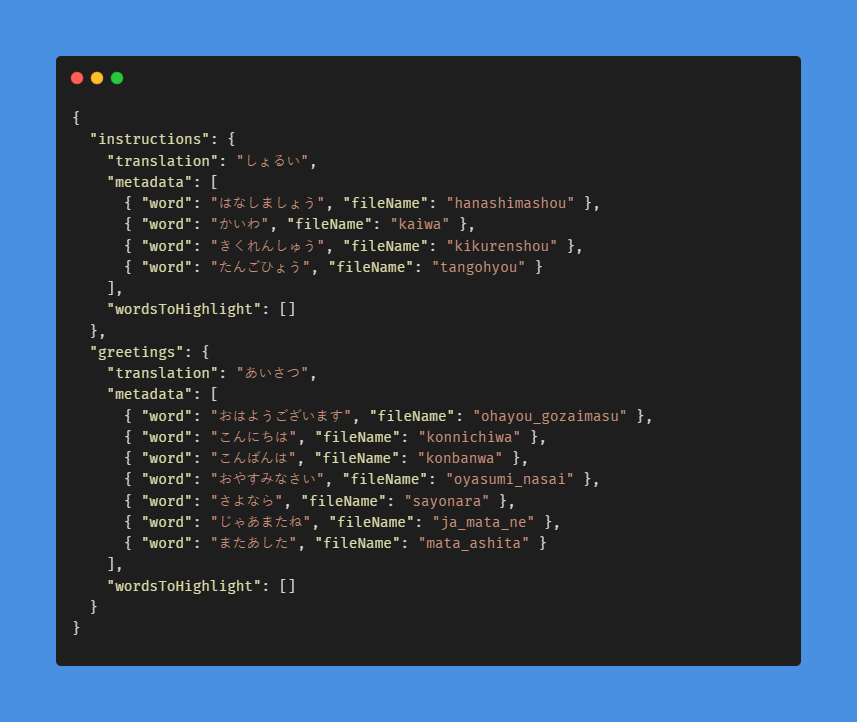
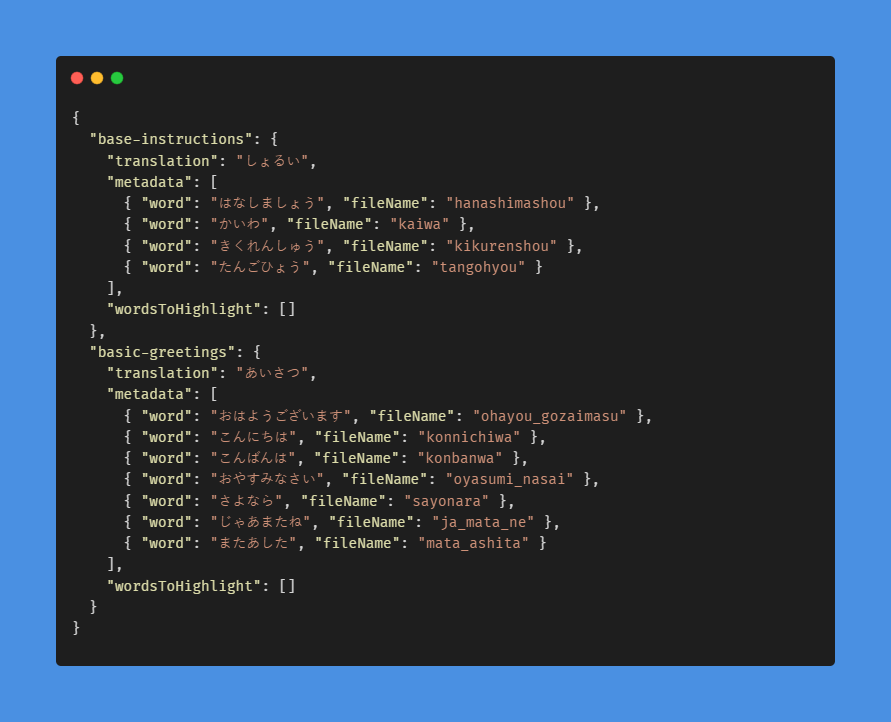
refactor: add image folders file routing

Changed region(s): [[0.0607, 0.0914, 0.7281, 0.9141], [0.9102, 0.0914, 0.9405, 0.9141]]

diff --git a/src/pages/interface/components/imageSection/ImageSection.tsx b/src/pages/interface/components/imageSection/ImageSection.tsx
@@ -5,12 +5,14 @@ import { type image } from "../../../../types";
 type ImageSectionProps = {
   images: image[];
   currentImage: string;
+  path: string;
   handleSetIsLoaded: () => void;
 };
 
 const ImageSection = ({
   images,
   currentImage,
+  path,
   handleSetIsLoaded,
 }: ImageSectionProps) => {
   return (
@@ -18,7 +20,7 @@ const ImageSection = ({
       <section className="grid rounded-3xl border-8 border-accent-shade bg-base-main p-4">
         {images.map((image) => {
           const imageUrl: string = new URL(
-            `../../../../images/${image.fileName}.jpg`,
+            `../../../../images/${path}/${image.fileName}.jpg`,
             import.meta.url,
           ).href;
           return (

diff --git a/src/pages/interface/Interface.tsx b/src/pages/interface/Interface.tsx
@@ -31,6 +31,7 @@ function Interface({ data, isShowText, handleIsShowText }: InterfaceProps) {
     text,
     currentImage,
     highlights,
+    path,
     isSpeechReady,
     handleNext,
     handleReset,
@@ -54,6 +55,7 @@ function Interface({ data, isShowText, handleIsShowText }: InterfaceProps) {
               <ImageSection
                 images={images}
                 currentImage={currentImage}
+                path={path}
                 handleSetIsLoaded={handleSetIsLoaded}
               />
             </>

diff --git a/src/hooks/useMetaData.ts b/src/hooks/useMetaData.ts
@@ -13,6 +13,7 @@ type useMetaDataProps = {
 
 const useMetaData = ({ data, pathname }: useMetaDataProps) => {
   // formats the path from url
+  // TODO: continue here -> maybe pass the path down to have a reference to the folder
   const path = pathSlashRemover(pathname);
 
   // state
@@ -55,6 +56,7 @@ const useMetaData = ({ data, pathname }: useMetaDataProps) => {
     text,
     currentImage,
     highlights,
+    path,
     isSpeechReady,
     handleNext,
     handleReset,

diff --git a/tests/interface.spec.ts b/tests/interface.spec.ts
@@ -1,6 +1,6 @@
 import { test, expect } from "@playwright/test";
 
-const LOCAL_HOST_URL_INTERFACE = "http://localhost:4173/instructions";
+const LOCAL_HOST_URL_INTERFACE = "http://localhost:4173/base-instructions";
 
 test.describe("interface", () => {
   test.beforeEach(async ({ page }) => {

diff --git a/README.md b/README.md
@@ -93,7 +93,7 @@ The user can access dark mode by clicking on the right hand side top corner them
 
 #### JSON file - meta data:
 
-main object keys = topics from origin language, these must be in kebab-case, e.g. **instructions**, **greetings** ...
+main object keys = topics from origin language, these must be in kebab-case, e.g. **base-instructions**, **basic-greetings** ...
 
 #### Nested objects keys:
 
@@ -105,7 +105,7 @@ main object keys = topics from origin language, these must be in kebab-case, e.g
 
 ### images folder:
 
-the images files are referenced in the meta-data objects file name field
+the images files are referenced in the meta-data objects file name field, these must also be in kebab-case, e.g. **base-instructions**, **basic-greetings** since they are referenced in the meta-data json object keys
 
 ![meta-data-json](assets/images/source_files/images_folder.png)
 
